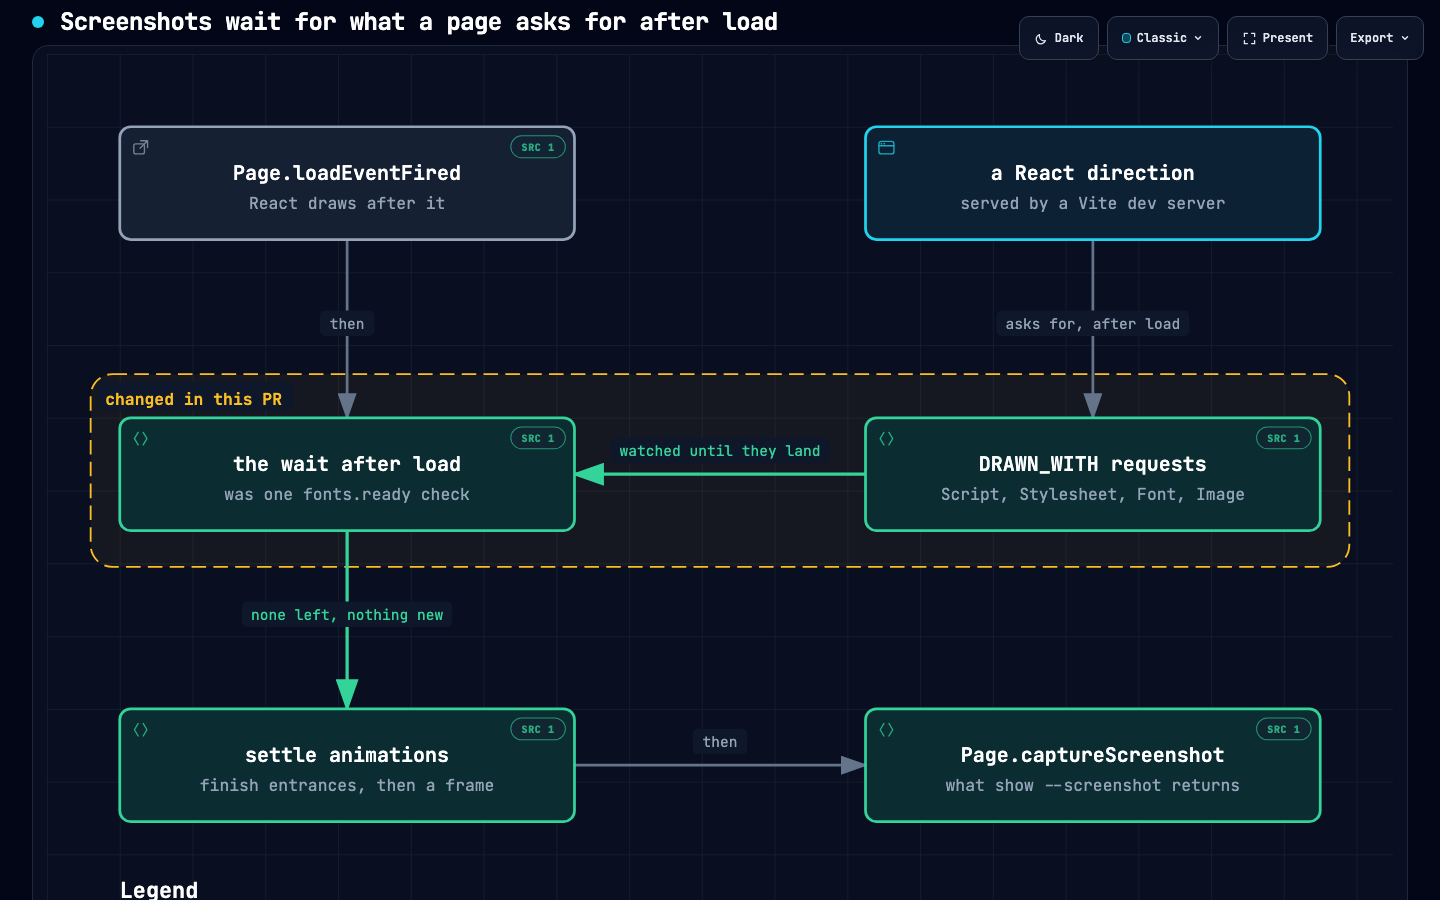
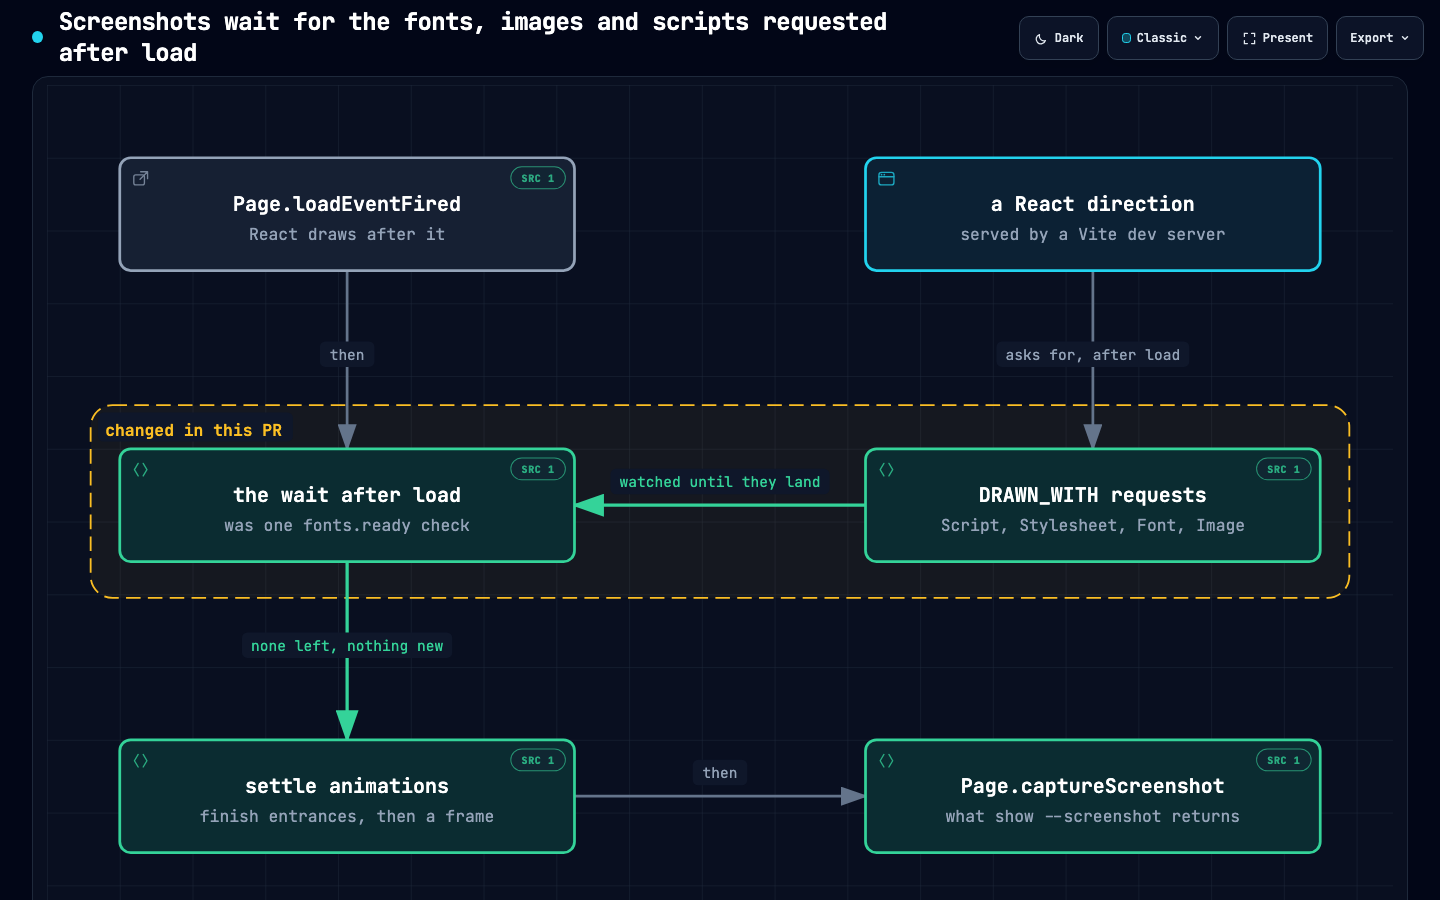
leglas #101: retitle both maps

diff --git a/projects/leglas/pull-requests/0101-capture-waits/change-plain.html b/projects/leglas/pull-requests/0101-capture-waits/change-plain.html
@@ -4,7 +4,7 @@
   <meta charset="UTF-8">
   <meta name="viewport" content="width=device-width, initial-scale=1.0">
   <meta name="generator" content="archify 2.17.0-dev.1">
-  <title>Screenshots now wait for what a page loads late Diagram</title>
+  <title>Screenshots now wait until the page&#39;s fonts, pictures and code have arrived Diagram</title>
   <script>
     // Resolve the theme before first paint so light-preference users don't
     // see a dark flash. The toolbar script below re-applies with UI state.
@@ -5081,7 +5081,7 @@ OTHER DEALINGS IN THE FONT SOFTWARE.
            data-preset-badge-blueprint="BLUEPRINT / REV 01"
            data-preset-badge-editorial="EDITORIAL / FIELD NOTE">
         <div class="pulse-dot"></div>
-        <h1>Screenshots now wait for what a page loads late</h1>
+        <h1>Screenshots now wait until the page&#39;s fonts, pictures and code have arrived</h1>
       </div>
     </div>
 
@@ -5131,7 +5131,7 @@ OTHER DEALINGS IN THE FONT SOFTWARE.
     <div class="diagram-container" data-detail-level="read"
          data-preset-badge-editorial-plate="ARCHIFY / PLATE 04">
       <svg viewBox="0 0 740 500" role="img" lang="en" aria-labelledby="archify-diagram-title archify-diagram-description" data-preset="classic" data-quality-profile="showcase">
-        <title id="archify-diagram-title">Screenshots now wait for what a page loads late</title>
+        <title id="archify-diagram-title">Screenshots now wait until the page&#39;s fonts, pictures and code have arrived</title>
         <desc id="archify-diagram-description">An architecture diagram generated by Archify.</desc>
         <!-- Definitions -->
         <defs>

diff --git a/projects/leglas/pull-requests/0101-capture-waits/change.html b/projects/leglas/pull-requests/0101-capture-waits/change.html
@@ -4,7 +4,7 @@
   <meta charset="UTF-8">
   <meta name="viewport" content="width=device-width, initial-scale=1.0">
   <meta name="generator" content="archify 2.17.0-dev.1">
-  <title>Screenshots wait for what a page asks for after load Diagram</title>
+  <title>Screenshots wait for the fonts, images and scripts requested after load Diagram</title>
   <script>
     // Resolve the theme before first paint so light-preference users don't
     // see a dark flash. The toolbar script below re-applies with UI state.
@@ -5081,7 +5081,7 @@ OTHER DEALINGS IN THE FONT SOFTWARE.
            data-preset-badge-blueprint="BLUEPRINT / REV 01"
            data-preset-badge-editorial="EDITORIAL / FIELD NOTE">
         <div class="pulse-dot"></div>
-        <h1>Screenshots wait for what a page asks for after load</h1>
+        <h1>Screenshots wait for the fonts, images and scripts requested after load</h1>
       </div>
     </div>
 
@@ -5131,7 +5131,7 @@ OTHER DEALINGS IN THE FONT SOFTWARE.
     <div class="diagram-container" data-detail-level="read"
          data-preset-badge-editorial-plate="ARCHIFY / PLATE 04">
       <svg viewBox="0 0 740 500" role="img" lang="en" aria-labelledby="archify-diagram-title archify-diagram-description" data-preset="classic" data-quality-profile="showcase">
-        <title id="archify-diagram-title">Screenshots wait for what a page asks for after load</title>
+        <title id="archify-diagram-title">Screenshots wait for the fonts, images and scripts requested after load</title>
         <desc id="archify-diagram-description">An architecture diagram generated by Archify.</desc>
         <!-- Definitions -->
         <defs>

diff --git a/projects/leglas/pull-requests/0101-capture-waits/change-plain.visual-check.html b/projects/leglas/pull-requests/0101-capture-waits/change-plain.visual-check.html
@@ -21,11 +21,11 @@
       </figure>
       <figure>
         <img src="change-plain.visual-check.2048x1320.light.png" alt="light 2048 by 1320">
-        <figcaption><strong>LIGHT</strong> · 2048×1320 · containment pass</figcaption>
+        <figcaption><strong>LIGHT</strong> · 2048×1320 · containment fail</figcaption>
       </figure>
       <figure>
         <img src="change-plain.visual-check.2048x1320.dark.png" alt="dark 2048 by 1320">
-        <figcaption><strong>DARK</strong> · 2048×1320 · containment pass</figcaption>
+        <figcaption><strong>DARK</strong> · 2048×1320 · containment fail</figcaption>
       </figure>
 </main>
 </body>

diff --git a/projects/leglas/pull-requests/0101-capture-waits/change.visual-check.html b/projects/leglas/pull-requests/0101-capture-waits/change.visual-check.html
@@ -21,11 +21,11 @@
       </figure>
       <figure>
         <img src="change.visual-check.2048x1320.light.png" alt="light 2048 by 1320">
-        <figcaption><strong>LIGHT</strong> · 2048×1320 · containment pass</figcaption>
+        <figcaption><strong>LIGHT</strong> · 2048×1320 · containment fail</figcaption>
       </figure>
       <figure>
         <img src="change.visual-check.2048x1320.dark.png" alt="dark 2048 by 1320">
-        <figcaption><strong>DARK</strong> · 2048×1320 · containment pass</figcaption>
+        <figcaption><strong>DARK</strong> · 2048×1320 · containment fail</figcaption>
       </figure>
 </main>
 </body>
